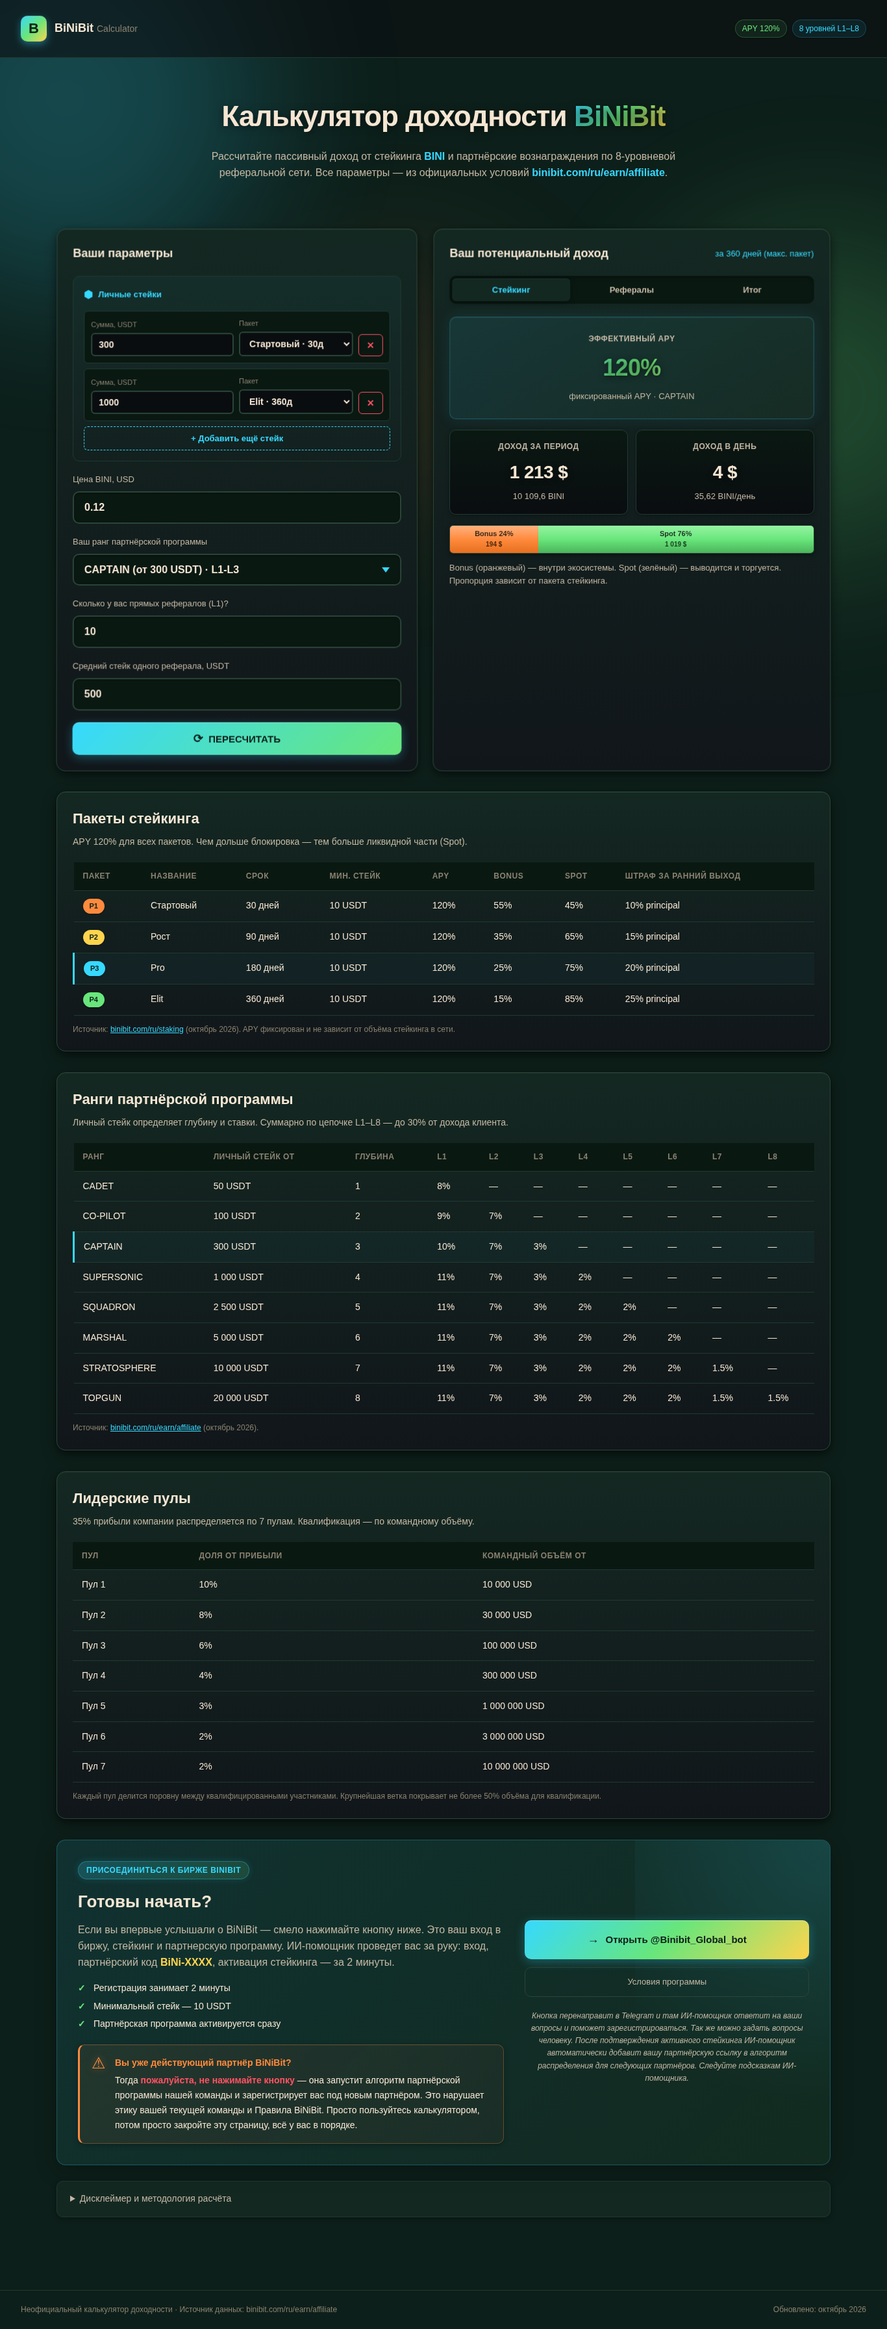
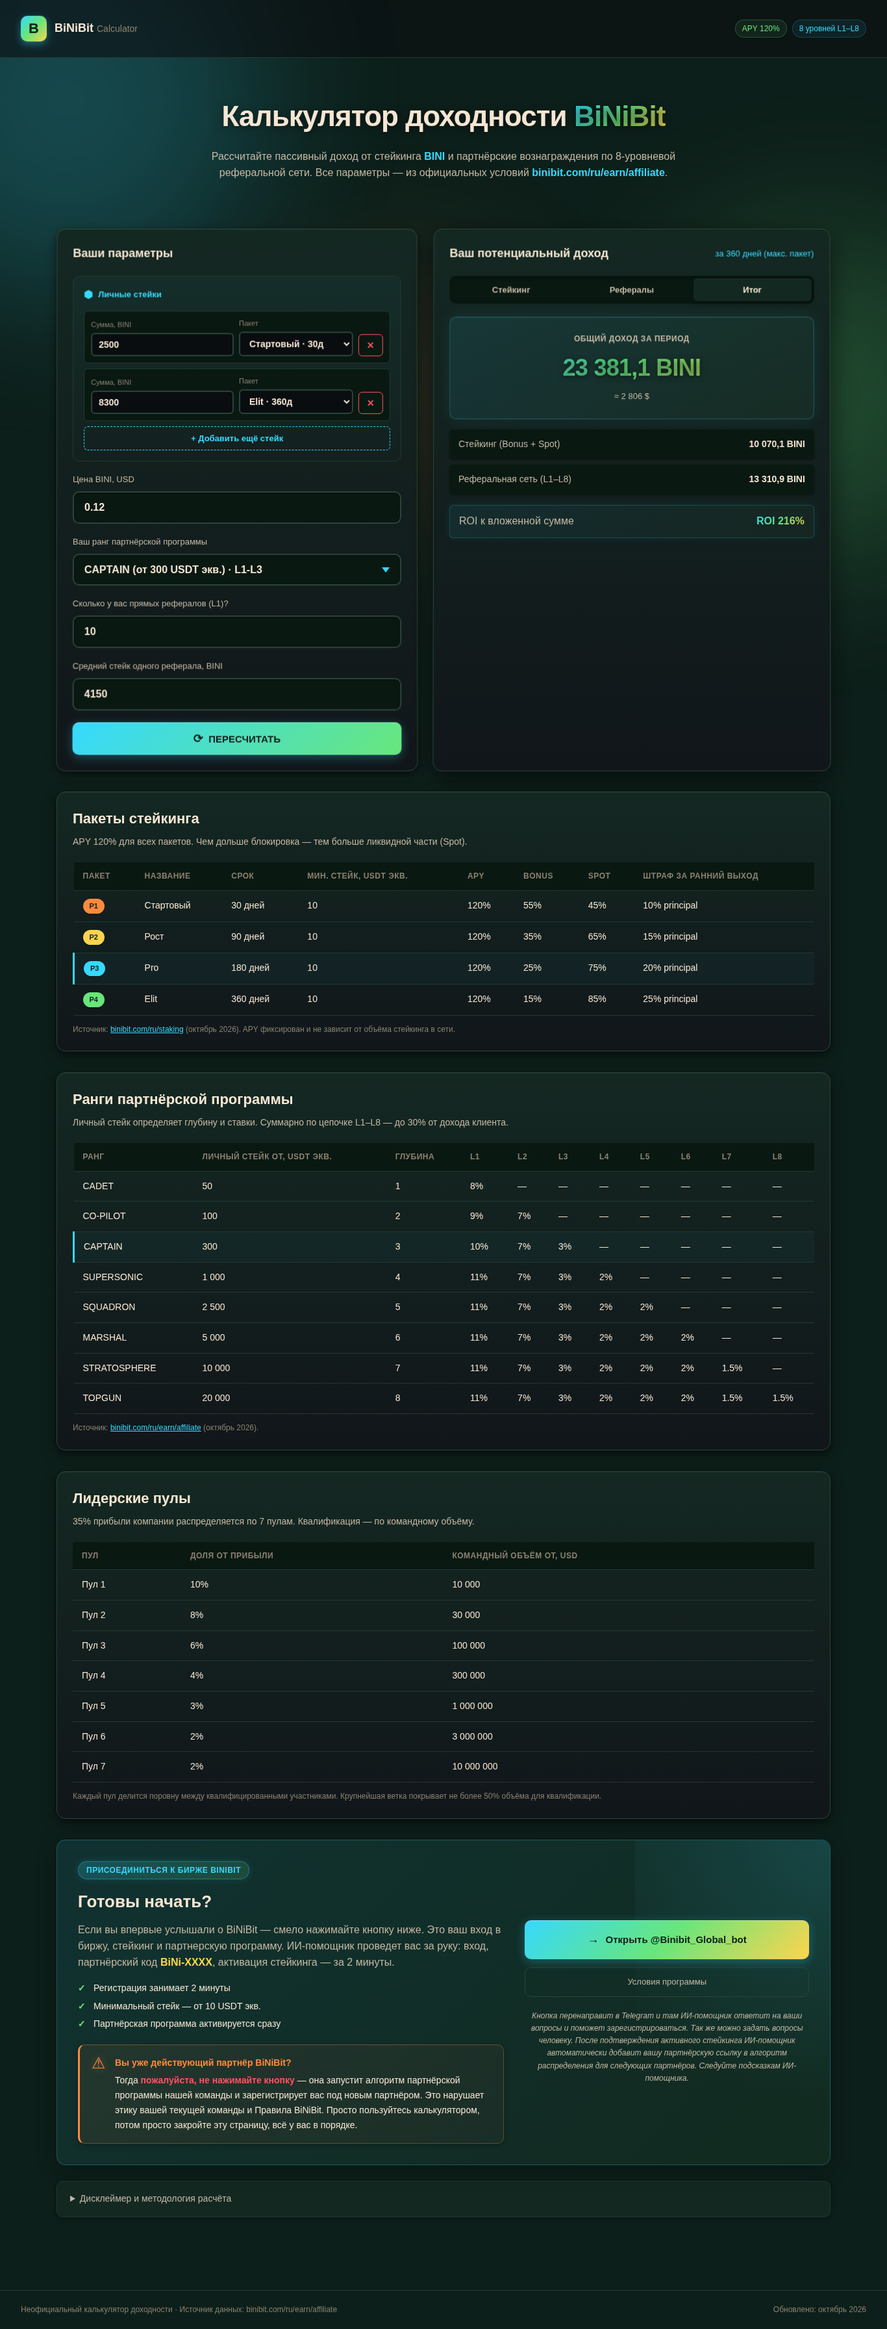
Add files via upload

diff --git a/index.html b/index.html
@@ -57,14 +57,14 @@
                 <div class="field">
                     <label for="rank-select">Ваш ранг партнёрской программы</label>
                     <select id="rank-select">
-                        <option value="0">CADET (от 50 USDT) · L1</option>
-                        <option value="1">CO-PILOT (от 100 USDT) · L1-L2</option>
-                        <option value="2" selected>CAPTAIN (от 300 USDT) · L1-L3</option>
-                        <option value="3">SUPERSONIC (от 1 000 USDT) · L1-L4</option>
-                        <option value="4">SQUADRON (от 2 500 USDT) · L1-L5</option>
-                        <option value="5">MARSHAL (от 5 000 USDT) · L1-L6</option>
-                        <option value="6">STRATOSPHERE (от 10 000 USDT) · L1-L7</option>
-                        <option value="7">TOPGUN (от 20 000 USDT) · L1-L8</option>
+                        <option value="0">CADET (от 50 USDT экв.) · L1</option>
+                        <option value="1">CO-PILOT (от 100 USDT экв.) · L1-L2</option>
+                        <option value="2" selected>CAPTAIN (от 300 USDT экв.) · L1-L3</option>
+                        <option value="3">SUPERSONIC (от 1 000 USDT экв.) · L1-L4</option>
+                        <option value="4">SQUADRON (от 2 500 USDT экв.) · L1-L5</option>
+                        <option value="5">MARSHAL (от 5 000 USDT экв.) · L1-L6</option>
+                        <option value="6">STRATOSPHERE (от 10 000 USDT экв.) · L1-L7</option>
+                        <option value="7">TOPGUN (от 20 000 USDT экв.) · L1-L8</option>
                     </select>
                 </div>
 
@@ -74,8 +74,8 @@
                 </div>
 
                 <div class="field">
-                    <label>Средний стейк одного реферала, USDT</label>
-                    <input type="number" id="referral-stake" min="0" step="50" value="500">
+                    <label>Средний стейк одного реферала, BINI</label>
+                    <input type="number" id="referral-stake" min="0" step="100" value="4150">
                 </div>
 
                 <button type="button" id="btn-recalc" class="btn-recalc">
@@ -178,7 +178,7 @@
                             <th>Пакет</th>
                             <th>Название</th>
                             <th>Срок</th>
-                            <th>Мин. стейк</th>
+                            <th>Мин. стейк, USDT экв.</th>
                             <th>APY</th>
                             <th>Bonus</th>
                             <th>Spot</th>
@@ -190,7 +190,7 @@
                             <td><span class="tier-pill tier-pill--30">P1</span></td>
                             <td>Стартовый</td>
                             <td>30 дней</td>
-                            <td>10 USDT</td>
+                            <td>10</td>
                             <td>120%</td>
                             <td>55%</td>
                             <td>45%</td>
@@ -200,7 +200,7 @@
                             <td><span class="tier-pill tier-pill--90">P2</span></td>
                             <td>Рост</td>
                             <td>90 дней</td>
-                            <td>10 USDT</td>
+                            <td>10</td>
                             <td>120%</td>
                             <td>35%</td>
                             <td>65%</td>
@@ -210,7 +210,7 @@
                             <td><span class="tier-pill tier-pill--180">P3</span></td>
                             <td>Pro</td>
                             <td>180 дней</td>
-                            <td>10 USDT</td>
+                            <td>10</td>
                             <td>120%</td>
                             <td>25%</td>
                             <td>75%</td>
@@ -220,7 +220,7 @@
                             <td><span class="tier-pill tier-pill--360">P4</span></td>
                             <td>Elit</td>
                             <td>360 дней</td>
-                            <td>10 USDT</td>
+                            <td>10</td>
                             <td>120%</td>
                             <td>15%</td>
                             <td>85%</td>
@@ -241,7 +241,7 @@
                     <thead>
                         <tr>
                             <th>Ранг</th>
-                            <th>Личный стейк от</th>
+                            <th>Личный стейк от, USDT экв.</th>
                             <th>Глубина</th>
                             <th>L1</th>
                             <th>L2</th>
@@ -254,14 +254,14 @@
                         </tr>
                     </thead>
                     <tbody>
-                        <tr><td>CADET</td><td>50 USDT</td><td>1</td><td>8%</td><td>—</td><td>—</td><td>—</td><td>—</td><td>—</td><td>—</td><td>—</td></tr>
-                        <tr><td>CO-PILOT</td><td>100 USDT</td><td>2</td><td>9%</td><td>7%</td><td>—</td><td>—</td><td>—</td><td>—</td><td>—</td><td>—</td></tr>
-                        <tr class="row-highlight"><td>CAPTAIN</td><td>300 USDT</td><td>3</td><td>10%</td><td>7%</td><td>3%</td><td>—</td><td>—</td><td>—</td><td>—</td><td>—</td></tr>
-                        <tr><td>SUPERSONIC</td><td>1 000 USDT</td><td>4</td><td>11%</td><td>7%</td><td>3%</td><td>2%</td><td>—</td><td>—</td><td>—</td><td>—</td></tr>
-                        <tr><td>SQUADRON</td><td>2 500 USDT</td><td>5</td><td>11%</td><td>7%</td><td>3%</td><td>2%</td><td>2%</td><td>—</td><td>—</td><td>—</td></tr>
-                        <tr><td>MARSHAL</td><td>5 000 USDT</td><td>6</td><td>11%</td><td>7%</td><td>3%</td><td>2%</td><td>2%</td><td>2%</td><td>—</td><td>—</td></tr>
-                        <tr><td>STRATOSPHERE</td><td>10 000 USDT</td><td>7</td><td>11%</td><td>7%</td><td>3%</td><td>2%</td><td>2%</td><td>2%</td><td>1.5%</td><td>—</td></tr>
-                        <tr><td>TOPGUN</td><td>20 000 USDT</td><td>8</td><td>11%</td><td>7%</td><td>3%</td><td>2%</td><td>2%</td><td>2%</td><td>1.5%</td><td>1.5%</td></tr>
+                        <tr><td>CADET</td><td>50</td><td>1</td><td>8%</td><td>—</td><td>—</td><td>—</td><td>—</td><td>—</td><td>—</td><td>—</td></tr>
+                        <tr><td>CO-PILOT</td><td>100</td><td>2</td><td>9%</td><td>7%</td><td>—</td><td>—</td><td>—</td><td>—</td><td>—</td><td>—</td></tr>
+                        <tr class="row-highlight"><td>CAPTAIN</td><td>300</td><td>3</td><td>10%</td><td>7%</td><td>3%</td><td>—</td><td>—</td><td>—</td><td>—</td><td>—</td></tr>
+                        <tr><td>SUPERSONIC</td><td>1 000</td><td>4</td><td>11%</td><td>7%</td><td>3%</td><td>2%</td><td>—</td><td>—</td><td>—</td><td>—</td></tr>
+                        <tr><td>SQUADRON</td><td>2 500</td><td>5</td><td>11%</td><td>7%</td><td>3%</td><td>2%</td><td>2%</td><td>—</td><td>—</td><td>—</td></tr>
+                        <tr><td>MARSHAL</td><td>5 000</td><td>6</td><td>11%</td><td>7%</td><td>3%</td><td>2%</td><td>2%</td><td>2%</td><td>—</td><td>—</td></tr>
+                        <tr><td>STRATOSPHERE</td><td>10 000</td><td>7</td><td>11%</td><td>7%</td><td>3%</td><td>2%</td><td>2%</td><td>2%</td><td>1.5%</td><td>—</td></tr>
+                        <tr><td>TOPGUN</td><td>20 000</td><td>8</td><td>11%</td><td>7%</td><td>3%</td><td>2%</td><td>2%</td><td>2%</td><td>1.5%</td><td>1.5%</td></tr>
                     </tbody>
                 </table>
             </div>
@@ -278,17 +278,17 @@
                         <tr>
                             <th>Пул</th>
                             <th>Доля от прибыли</th>
-                            <th>Командный объём от</th>
+                            <th>Командный объём от, USD</th>
                         </tr>
                     </thead>
                     <tbody>
-                        <tr><td>Пул 1</td><td>10%</td><td>10 000 USD</td></tr>
-                        <tr><td>Пул 2</td><td>8%</td><td>30 000 USD</td></tr>
-                        <tr><td>Пул 3</td><td>6%</td><td>100 000 USD</td></tr>
-                        <tr><td>Пул 4</td><td>4%</td><td>300 000 USD</td></tr>
-                        <tr><td>Пул 5</td><td>3%</td><td>1 000 000 USD</td></tr>
-                        <tr><td>Пул 6</td><td>2%</td><td>3 000 000 USD</td></tr>
-                        <tr><td>Пул 7</td><td>2%</td><td>10 000 000 USD</td></tr>
+                        <tr><td>Пул 1</td><td>10%</td><td>10 000</td></tr>
+                        <tr><td>Пул 2</td><td>8%</td><td>30 000</td></tr>
+                        <tr><td>Пул 3</td><td>6%</td><td>100 000</td></tr>
+                        <tr><td>Пул 4</td><td>4%</td><td>300 000</td></tr>
+                        <tr><td>Пул 5</td><td>3%</td><td>1 000 000</td></tr>
+                        <tr><td>Пул 6</td><td>2%</td><td>3 000 000</td></tr>
+                        <tr><td>Пул 7</td><td>2%</td><td>10 000 000</td></tr>
                     </tbody>
                 </table>
             </div>
@@ -304,7 +304,7 @@
                     <p>Если вы впервые услышали о BiNiBit — смело нажимайте кнопку ниже. Это ваш вход в биржу, стейкинг и партнерскую программу. ИИ-помощник проведет вас за руку: вход, партнёрский код <em>BiNi-XXXX</em>, активация стейкинга — за 2 минуты.</p>
                     <ul class="cta__list">
                         <li>Регистрация занимает 2 минуты</li>
-                        <li>Минимальный стейк — 10 USDT</li>
+                        <li>Минимальный стейк — от 10 USDT экв.</li>
                         <li>Партнёрская программа активируется сразу</li>
                     </ul>
 

diff --git a/app.js b/app.js
@@ -67,11 +67,11 @@
     };
 
     // ====== СОСТОЯНИЕ ЛИЧНЫХ СТЕЙКОВ ======
-    // По умолчанию: один на 30 дней ($300), другой на 360 дней ($1000)
-    // Как просила Лида — у неё два разных стейка
+    // По умолчанию: один на 30 дней (≈ $300), другой на 360 дней (≈ $1000)
+    // при цене BINI $0.12 → $300 = 2500 BINI, $1000 = 8333 BINI
     let stakes = [
-        { amount: 300,  package: 30 },
-        { amount: 1000, package: 360 }
+        { amount: 2500, package: 30 },
+        { amount: 8300, package: 360 }
     ];
 
     // ====== ФУНКЦИИ ФОРМАТИРОВАНИЯ ======
@@ -106,8 +106,8 @@
             row.className = 'stake-row';
             row.innerHTML = `
                 <div class="stake-row__field">
-                    <label>Сумма, USDT</label>
-                    <input type="number" min="10" step="10" value="${s.amount}" data-stake-idx="${idx}" data-stake-field="amount">
+                    <label>Сумма, BINI</label>
+                    <input type="number" min="1" step="10" value="${s.amount}" data-stake-idx="${idx}" data-stake-field="amount">
                 </div>
                 <div class="stake-row__field">
                     <label>Пакет</label>
@@ -192,24 +192,24 @@
     function render() {
         const price = parseFloat(biniPrice.value) || 0.12;
         const refCount = parseInt(referralCount.value) || 0;
-        const refStakeUsdt = parseFloat(referralStake.value) || 0;
+        const refStakeBini = parseFloat(referralStake.value) || 0;
         const rankIdx = parseInt(rankSelect.value) || 0;
         const rank = RANKS[rankIdx];
 
-        // Сумма личных стейков
-        const totalStakeUsdt = stakes.reduce((sum, s) => sum + (s.amount || 0), 0);
+        // Сумма личных стейков в BINI
+        const totalStakeBini = stakes.reduce((sum, s) => sum + (s.amount || 0), 0);
 
         // Период для отображения — берём максимальный из стейков (для периода отображения дохода)
         // Но считаем каждый стейк отдельно со своим периодом
         const maxLockDays = Math.max(...stakes.map(s => PACKAGES[s.package].lockDays));
         periodLabel.textContent = `за ${maxLockDays} дней (макс. пакет)`;
 
-        // === Стейкинг — считаем каждый стейк отдельно ===
+        // === Стейкинг — считаем каждый стейк отдельно, в BINI ===
         const apy = STAKING_APY;
-        let totalDaily = 0;
-        let totalPeriodReward = 0;
-        let totalBonus = 0;
-        let totalSpot = 0;
+        let totalDailyBini = 0;
+        let totalPeriodBini = 0;
+        let totalBonusBini = 0;
+        let totalSpotBini = 0;
 
         // Для split-bar берём средневзвешенный split
         let weightedBonus = 0;
@@ -218,12 +218,12 @@
 
         stakes.forEach(s => {
             const pkg = PACKAGES[s.package];
-            const daily = calcDailyReward(s.amount, apy);
-            const period = daily * pkg.lockDays;
-            totalDaily += daily;
-            totalPeriodReward += period;
-            totalBonus += period * pkg.bonus;
-            totalSpot += period * pkg.spot;
+            const daily = calcDailyReward(s.amount, apy);  // в BINI
+            const period = daily * pkg.lockDays;            // в BINI
+            totalDailyBini += daily;
+            totalPeriodBini += period;
+            totalBonusBini += period * pkg.bonus;
+            totalSpotBini += period * pkg.spot;
             weightedBonus += pkg.bonus * s.amount;
             weightedSpot += pkg.spot * s.amount;
             totalStakeForWeight += s.amount;
@@ -232,14 +232,24 @@
         const avgBonus = totalStakeForWeight > 0 ? weightedBonus / totalStakeForWeight : 0.25;
         const avgSpot = totalStakeForWeight > 0 ? weightedSpot / totalStakeForWeight : 0.75;
 
+        // ВАЛИДАЦИЯ мин. стейка в USDT-эквиваленте
+        // Проверяем, что сумма × цена ≥ мин. порога пакета (10 USDT)
+        const minUsdt = 10;
+        let minStakeOk = true;
+        stakes.forEach(s => {
+            const stakeUsdt = s.amount * price;
+            if (stakeUsdt < minUsdt) minStakeOk = false;
+        });
+
         out.apyEffective.textContent = formatApy(apy);
         out.apyBase.textContent = `фиксированный APY · ${rank.code}`;
-        out.stakingPeriod.textContent = `${formatUsd(totalPeriodReward)}`;
-        out.stakingPeriodUsd.textContent = `${formatNumber(totalPeriodReward / price, 1)} BINI`;
-        out.stakingDaily.textContent = `${formatUsd(totalDaily)}`;
-        out.stakingDailyUsd.textContent = `${formatNumber(totalDaily / price, 2)} BINI/день`;
-        out.splitBonus.textContent = `${formatUsd(totalBonus)}`;
-        out.splitSpot.textContent = `${formatUsd(totalSpot)}`;
+        // Основная сумма — BINI, USD-эквивалент — под ней
+        out.stakingPeriod.textContent = `${formatNumber(totalPeriodBini, 1)} BINI`;
+        out.stakingPeriodUsd.textContent = `≈ ${formatUsd(totalPeriodBini * price)}`;
+        out.stakingDaily.textContent = `${formatNumber(totalDailyBini, 2)} BINI`;
+        out.stakingDailyUsd.textContent = `≈ ${formatUsd(totalDailyBini * price)} / день`;
+        out.splitBonus.textContent = `${formatNumber(totalBonusBini, 1)} BINI`;
+        out.splitSpot.textContent = `${formatNumber(totalSpotBini, 1)} BINI`;
 
         // Ширина сплит-бара — средневзвешенная
         document.querySelector('.split-bar__item--bonus').style.width = (avgBonus * 100) + '%';
@@ -249,18 +259,18 @@
         if (bonusLabel) bonusLabel.textContent = `Bonus ${(avgBonus * 100).toFixed(0)}%`;
         if (spotLabel) spotLabel.textContent = `Spot ${(avgSpot * 100).toFixed(0)}%`;
 
-        // === Рефералы ===
+        // === Рефералы — считаем в BINI ===
         const tree = calcReferralTree(refCount, rank.depth);
-        const clientDaily = calcDailyReward(refStakeUsdt, apy);
+        const clientDailyBini = calcDailyReward(refStakeBini, apy);
         // Период для расчёта реферальных берем максимальный — клиент стейкает на максимальный пакет
-        const refPeriod = clientDaily * maxLockDays;
+        const refPeriodBini = clientDailyBini * maxLockDays;
 
-        let totalRefIncome = 0;
+        let totalRefIncomeBini = 0;
         const breakdown = tree.map((node, i) => {
             const rate = rank.rates[i] || 0;
-            const perClient = refPeriod * rate;
+            const perClient = refPeriodBini * rate;
             const levelTotal = node.count * perClient;
-            totalRefIncome += levelTotal;
+            totalRefIncomeBini += levelTotal;
             return {
                 level: node.level,
                 count: node.count,
@@ -270,8 +280,8 @@
             };
         });
 
-        out.refTotal.textContent = `${formatUsd(totalRefIncome)}`;
-        out.refTotalUsd.textContent = `${formatNumber(totalRefIncome / price, 1)} BINI`;
+        out.refTotal.textContent = `${formatNumber(totalRefIncomeBini, 1)} BINI`;
+        out.refTotalUsd.textContent = `≈ ${formatUsd(totalRefIncomeBini * price)}`;
 
         out.refLevels.innerHTML = '';
         breakdown.forEach((lvl) => {
@@ -282,20 +292,20 @@
                 <span class="ref-level__label">L${lvl.level}</span>
                 <span class="ref-level__rate">${ratePct}% · линия ${lvl.level}</span>
                 <span class="ref-level__count">${formatNumber(lvl.count)} чел.</span>
-                <span class="ref-level__value">${formatUsd(lvl.total)}</span>
+                <span class="ref-level__value">${formatNumber(lvl.total, 1)} BINI</span>
             `;
             out.refLevels.appendChild(div);
         });
 
         // === Итог ===
-        const grandTotal = totalPeriodReward + totalRefIncome;
-        const grandBini = grandTotal / price;
-        const roi = totalStakeUsdt > 0 ? (grandTotal / totalStakeUsdt * 100) : 0;
+        const grandTotalBini = totalPeriodBini + totalRefIncomeBini;
+        const grandUsd = grandTotalBini * price;
+        const roi = totalStakeBini > 0 ? (grandTotalBini / totalStakeBini * 100) : 0;
 
-        out.grandTotal.textContent = `${formatUsd(grandTotal)}`;
-        out.grandTotalUsd.textContent = `${formatNumber(grandBini, 1)} BINI`;
-        out.brStaking.textContent = `${formatUsd(totalPeriodReward)}`;
-        out.brReferral.textContent = `${formatUsd(totalRefIncome)}`;
+        out.grandTotal.textContent = `${formatNumber(grandTotalBini, 1)} BINI`;
+        out.grandTotalUsd.textContent = `≈ ${formatUsd(grandUsd)}`;
+        out.brStaking.textContent = `${formatNumber(totalPeriodBini, 1)} BINI`;
+        out.brReferral.textContent = `${formatNumber(totalRefIncomeBini, 1)} BINI`;
         out.brRoi.textContent = `ROI ${formatNumber(roi, 0)}%`;
 
         clearStale();
@@ -303,7 +313,8 @@
 
     // ====== СОБЫТИЯ ======
     btnAddStake.addEventListener('click', () => {
-        stakes.push({ amount: 100, package: 180 });
+        // Дефолт для нового стейка — в BINI (~$100 при цене $0.12)
+        stakes.push({ amount: 830, package: 180 });
         renderStakes();
         markStale();
     });
